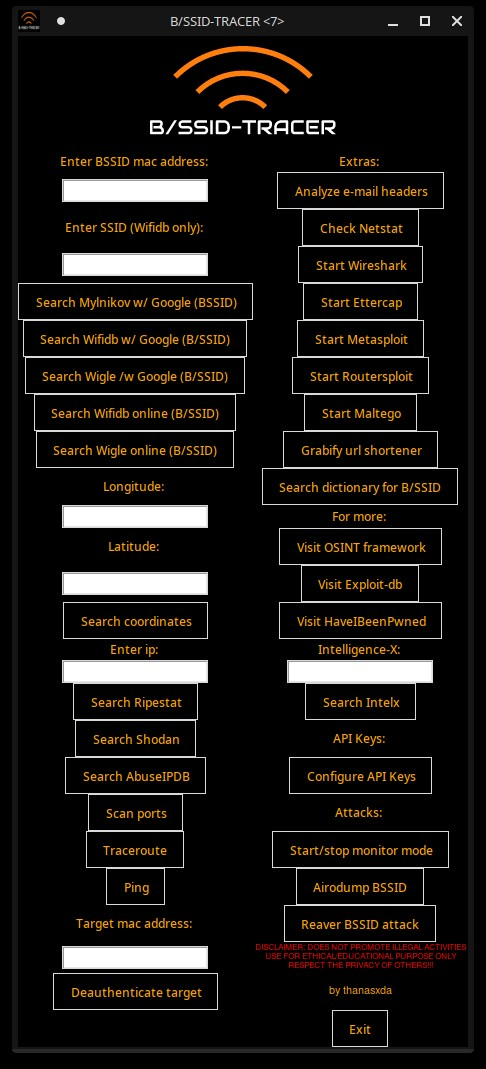
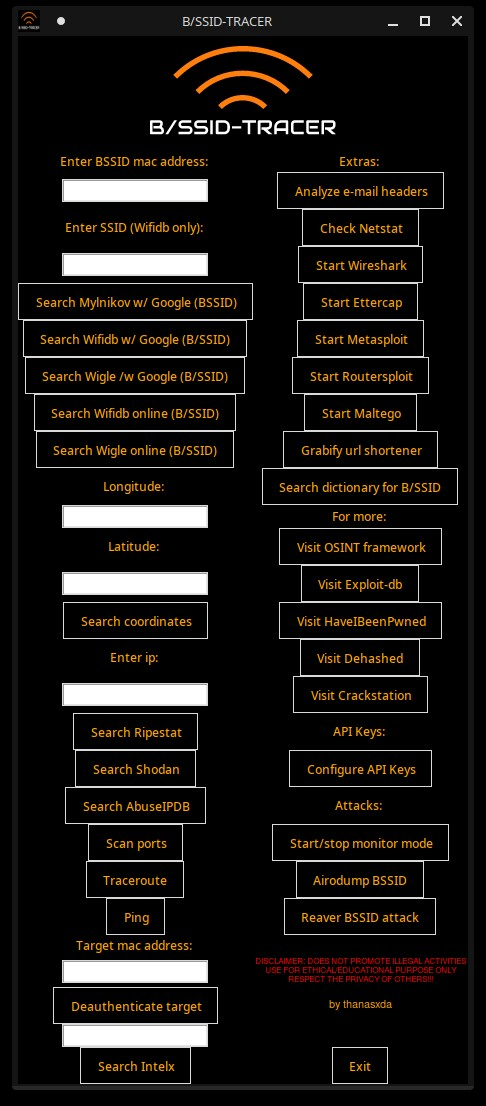
update

diff --git a/bssid-tracer.py b/bssid-tracer.py
@@ -279,6 +279,15 @@ btn_client = Button(root,bg='#000', fg='orange', text='Deauthenticate target', b
 btn_client.grid(column=0, row=25)
 ############################
 
+# intelx ##############
+ix = StringVar(root, value="")
+ixTf = Entry(root, textvariable=ix).grid(column=0, row=26)
+def siX():
+		os.system("xdg-open 'https://intelx.io/?s="+ix.get()+"'")
+btn_ix = Button(root,bg='#000', fg='orange', text='Search Intelx', borderwidth=4, relief="solid", command=siX)
+btn_ix.grid(column=0, row=27)
+############################
+
 
 # EXTRA OPTIONS ##############
 Label(root,bg='#000', fg='orange', text='Extras: ').grid(column=1, row=1)
@@ -361,31 +370,34 @@ btn_edb = Button(root,bg='#000', fg='orange', text='Visit Exploit-db', borderwid
 btn_edb.grid(column=1, row=13)
 
 # pwnd ##############
-def eDB():
+def pwnd():
 		os.system("xdg-open 'https://haveibeenpwned.com/'")
-btn_edb = Button(root,bg='#000', fg='orange', text='Visit HaveIBeenPwned', borderwidth=4, relief="solid", command=eDB)
-btn_edb.grid(column=1, row=14)
+btn_pwnd = Button(root,bg='#000', fg='orange', text='Visit HaveIBeenPwned', borderwidth=4, relief="solid", command=pwnd)
+btn_pwnd.grid(column=1, row=14)
 
-# intelx ##############
-Label(root,bg='#000', fg='orange', text='Intelligence-X: ').grid(column=1, row=15)
-ix = StringVar(root, value="")
-ixTf = Entry(root, textvariable=ix).grid(column=1, row=16)
-def siX():
-		os.system("xdg-open 'https://intelx.io/?s="+ix.get()+"'")
-btn_ix = Button(root,bg='#000', fg='orange', text='Search Intelx', borderwidth=4, relief="solid", command=siX)
-btn_ix.grid(column=1, row=17)
+# dehashed ##############
+def dhs():
+		os.system("xdg-open 'https://dehashed.com/'")
+btn_dhs = Button(root,bg='#000', fg='orange', text='Visit Dehashed', borderwidth=4, relief="solid", command=dhs)
+btn_dhs.grid(column=1, row=15)
+
+# crackstation ##############
+def crst():
+		os.system("xdg-open 'https://crackstation.net/'")
+btn_crst = Button(root,bg='#000', fg='orange', text='Visit Crackstation', borderwidth=4, relief="solid", command=crst)
+btn_crst.grid(column=1, row=16)
 ############################
 
 
 # API KEYS ##############
-Label(root,bg='#000', fg='orange', text='API Keys: ').grid(column=1, row=18)
+Label(root,bg='#000', fg='orange', text='API Keys: ').grid(column=1, row=17)
 btn_apk = Button(root,bg='#000', fg='orange', text='Configure API Keys', borderwidth=4, relief="solid", command=openWindowAPI)
-btn_apk.grid(column=1, row=19)
+btn_apk.grid(column=1, row=18)
 ############################
 
 
 # ATTACK OPTIONS ##############
-Label(root,bg='#000', fg='orange', text='Attacks: ').grid(column=1, row=20)
+Label(root,bg='#000', fg='orange', text='Attacks: ').grid(column=1, row=19)
 ############################
 
 # aircrack-ng ##############
@@ -394,20 +406,20 @@ def airMon():
 	os.seteuid(1000)
 	os.system("if airmon-ng | grep -qi wlan ; then airmon-ng stop $(ip -o link | grep -i wlan | awk -F ':' '{print $2}' | head -n1)mon ; else sudo airmon-ng start $(ip -o link | grep -i wlan | awk -F ':' '{print $2}' | head -n1)mon ; fi")
 btn_airmn = Button(root,bg='#000', fg='orange', text='Start/stop monitor mode', borderwidth=4, relief="solid", command=airMon)
-btn_airmn.grid(column=1, row=21)
+btn_airmn.grid(column=1, row=20)
 
 # airodump
 def airoD():
 	os.seteuid(1000)
 	os.system("airodump-ng $(ip -o link | grep -i wlan | awk -F ':' '{print $2}' | head -n1)mon --bssid "+mac.get())
 btn_airmn = Button(root,bg='#000', fg='orange', text='Airodump BSSID', borderwidth=4, relief="solid", command=airoD)
-btn_airmn.grid(column=1, row=22)
+btn_airmn.grid(column=1, row=21)
 
 # reaver ##############
 def wps():
 		os.system("reaver -i $(ip -o link | grep -i wlan | awk -F ':' '{print $2}' | head -n1)mon -b "+mac.get())
 btn_rvr = Button(root,bg='#000', fg='orange', text='Reaver BSSID attack', borderwidth=4, relief="solid", command=root.destroy)
-btn_rvr.grid(column=1, row=23)
+btn_rvr.grid(column=1, row=22)
 ############################
 
 
@@ -415,7 +427,7 @@ btn_rvr.grid(column=1, row=23)
 Label(root,bg='#000', fg='#f00', font=('Helvetica',6), text='DISCLAIMER: DOES NOT PROMOTE ILLEGAL ACTIVITIES\nUSE FOR ETHICAL/EDUCATIONAL PURPOSE ONLY\nRESPECT THE PRIVACY OF OTHERS!!!').grid(column=1, row=24)
 Label(root,bg='#000', fg='orange', font=('Helvetica',8), text='by thanasxda').grid(column=1, row=25)
 btn_exit = Button(root,bg='#000', fg='orange', text='Exit', borderwidth=4, relief="solid", command=root.destroy)
-btn_exit.grid(column=1, row=26)
+btn_exit.grid(column=1, row=27)
 ############################
 
 
